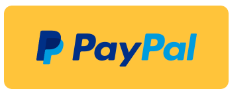
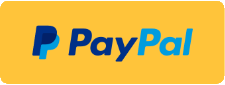
Sizing of images for mobile view.

Changed region(s): [[0.0, 0.0, 1.0, 0.9882], [0.1244, 0.2824, 0.8711, 0.7294]]

diff --git a/content/author.md b/content/author.md
@@ -14,7 +14,6 @@ I hope Skewy can give you peace of mind.
 
 If you would like to say thanks, you can send a cup of coffee. No refunds.
 
-{{< responsive-image src="img/pp-button.png" width="20%" frame="false"  link="https://www.paypal.com/donate/?hosted_button_id=GZ2SPFYWEAABQ" >}}
-
+{{< responsive-image src="img/pp-button.png" width="20%" frame="false" float="left"  link="https://www.paypal.com/donate/?hosted_button_id=GZ2SPFYWEAABQ" >}}
 
 {{<image float="center" width="25em" frame="false" caption="" src="img/skewy_gladiators.png" >}} 
